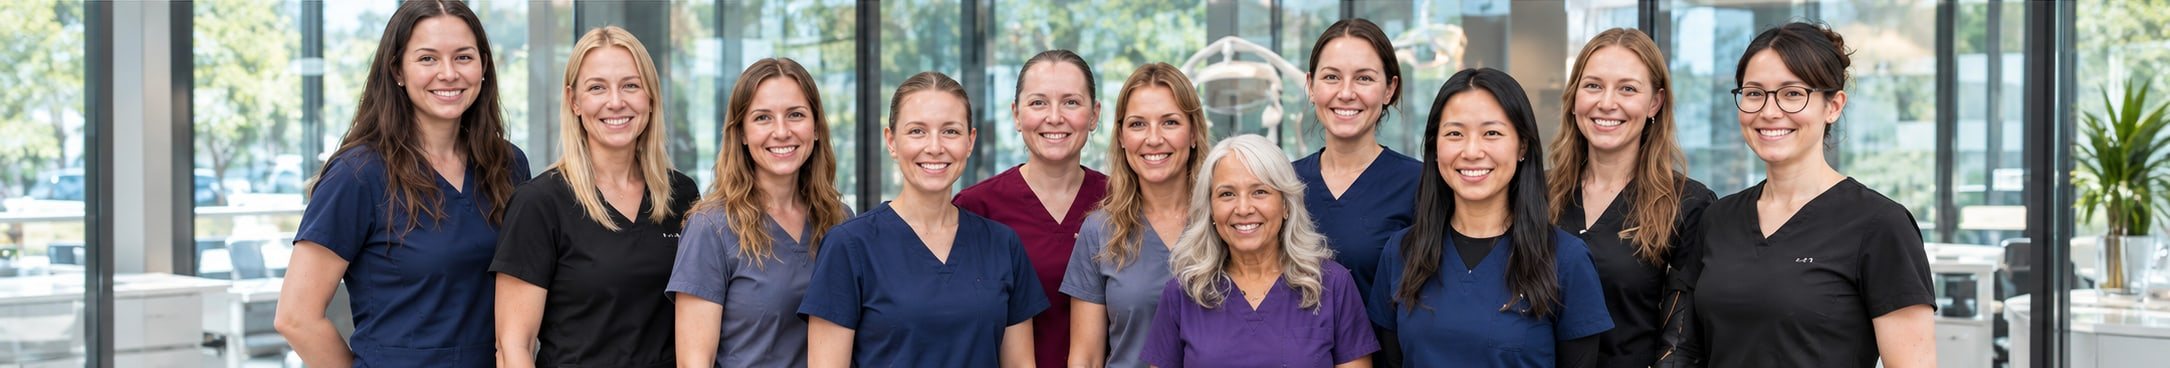
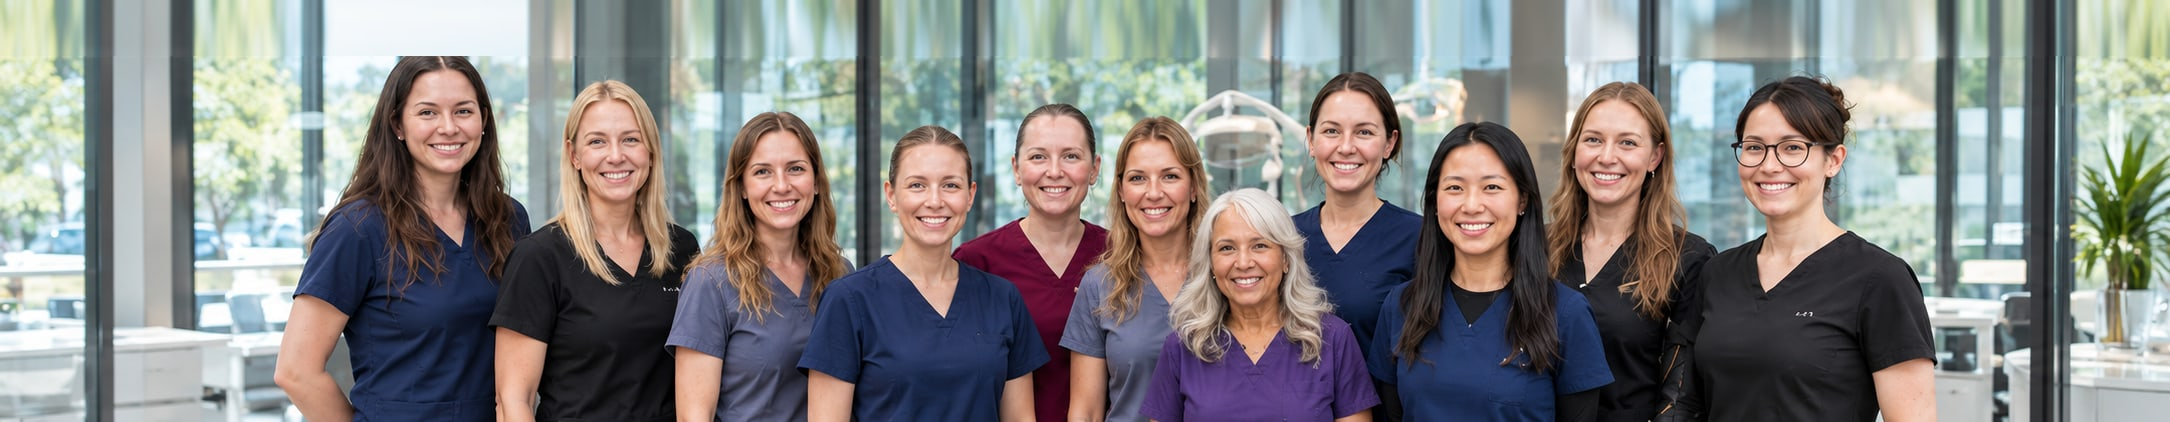
first commit

diff --git a/index.html b/index.html
@@ -155,12 +155,12 @@ ul, ol { list-style: none; margin: 0; padding: 0; }
 .band-in { position: relative; z-index: 2; height: 100%; display: flex; flex-direction: column; align-items: center; justify-content: center; }
 .band h2 { color: #fff; font-weight: 600; font-size: clamp(36px, 4.2vw, 64px); line-height: 1.04; letter-spacing: -.03em; }
 .band .btn { margin-top: clamp(22px, 2.4vw, 32px); }
-/* team photo is a wide 5.9:1 strip: show it whole, heading sits on its lower edge */
-.team { --tb: #18232d; background: var(--tb); }
+/* team photo is a wide strip: shown whole and untinted, heading + button sit below it */
+.team { background: var(--bg); color: var(--ink); }
 .team .band-img { position: relative; inset: auto; }
-.team .band-img img { height: auto; aspect-ratio: 2170 / 368; min-height: 220px; object-position: 50% 30%; }
-.team .band-img::after { content: ''; position: absolute; inset: 0; background: linear-gradient(0deg, var(--tb) 0%, rgba(24, 35, 45, .55) 28%, rgba(24, 35, 45, 0) 55%); }
-.team .band-in { margin-top: clamp(-110px, -5.5vw, -40px); padding-bottom: clamp(44px, 4.4vw, 72px); }
+.team .band-img img { height: auto; aspect-ratio: 2170 / 422; min-height: 240px; }
+.team .band-in { padding: clamp(36px, 3.6vw, 56px) 0 clamp(8px, 1vw, 16px); }
+.team h2 { color: var(--ink); }
 .cta { height: clamp(260px, 17.5vw, 360px); }
 .cta::after { background: rgba(32, 28, 24, .5); }
 
@@ -387,7 +387,7 @@ ul, ol { list-style: none; margin: 0; padding: 0; }
     <div class="band-img"><img src="assets/img/team.jpg" alt="The Downtown Dental team" loading="lazy"></div>
     <div class="wrap band-in">
       <h2><span class="m"><span>Calgary’s trusted</span></span><span class="m"><span>dental team.</span></span></h2>
-      <a class="btn mag" href="/about-us/meet-the-team/">Meet our team <svg viewBox="0 0 24 24" fill="none" stroke="currentColor" stroke-width="1.6" aria-hidden="true"><path d="M4 12h15M13 6l6 6-6 6"/></svg></a>
+      <a class="btn dark mag" href="/about-us/meet-the-team/">Meet our team <svg viewBox="0 0 24 24" fill="none" stroke="currentColor" stroke-width="1.6" aria-hidden="true"><path d="M4 12h15M13 6l6 6-6 6"/></svg></a>
     </div>
   </section>
 
@@ -529,8 +529,9 @@ if (hasG && !reduce) {
 
   // photo bands open up and drift
   $$('.band').forEach(b => {
-    gsap.fromTo(b, { clipPath: 'inset(6% 5% 6% 5% round 28px)' }, { clipPath: 'inset(0% 0% 0% 0% round 0px)', ease: 'none', scrollTrigger: { trigger: b, start: 'top 98%', end: 'top 40%', scrub: true } });
-    if (!b.classList.contains('team')) gsap.fromTo($('.band-img', b), { yPercent: -7 }, { yPercent: 7, ease: 'none', scrollTrigger: { trigger: b, start: 'top bottom', end: 'bottom top', scrub: true } });
+    const team = b.classList.contains('team');
+    gsap.fromTo(b, { clipPath: team ? 'inset(0% 5% 0% 5% round 28px)' : 'inset(6% 5% 6% 5% round 28px)' }, { clipPath: 'inset(0% 0% 0% 0% round 0px)', ease: 'none', scrollTrigger: { trigger: b, start: 'top 98%', end: 'top 40%', scrub: true } });
+    if (!team) gsap.fromTo($('.band-img', b), { yPercent: -7 }, { yPercent: 7, ease: 'none', scrollTrigger: { trigger: b, start: 'top bottom', end: 'bottom top', scrub: true } });
     gsap.from($$('.kicker, .sub, .btn', b), { y: 26, opacity: 0, duration: 1, ease: 'power3.out', stagger: .08, scrollTrigger: { trigger: b, start: 'top 55%' } });
   });
 

diff --git a/assets/img/CREDITS.md b/assets/img/CREDITS.md
@@ -2,9 +2,9 @@
 
 | File | Source | Note |
 |---|---|---|
-| hero.jpg | Supplied by the user (2026-10-29), 1536x1024 lobby rendering with branded glass door | Earlier real-photo heroes are in git history. |
+| hero.jpg | Supplied by the user (2026-10-30), 1981x794 lobby image (skylight, branded glass door) | Earlier heroes are in git history. |
 | cta.jpg | Clinic owner photo on Google Maps (7314x4876; same as 123Dentist AB-0076-operatory-5), resized to 2400px | Real operatory. |
-| team.jpg | Supplied by the user (2026-10-29), 2170x379 strip, top 11px white edge trimmed | Shown whole; band is laid out around its 5.9:1 ratio. |
+| team.jpg | Supplied by the user (2026-10-29), 2170x379 strip; white top edge trimmed and 56px of blurred window background added on top so no head touches the edge (scratchpad headroom.js) | Shown whole, untinted; heading sits below it. |
 | dentists.jpg | downtowndentist.ca home hero (home-page-hero-downtown-dentist-calgary.jpg), right half crop | Dr. Claire Whitney & Dr. Kristin Yont. |
 | services.jpg | Clinic owner photo on Google Maps (7314x4876), resized to 1800px | Treatment room with skylight ceiling. |
 
